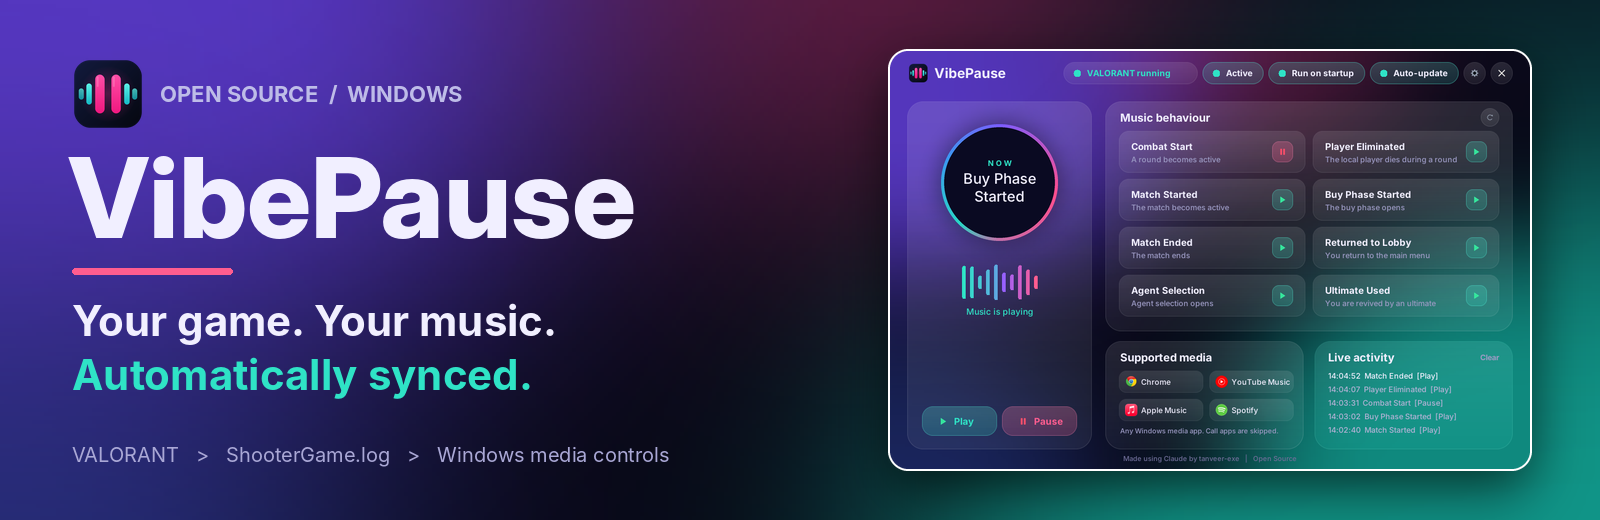
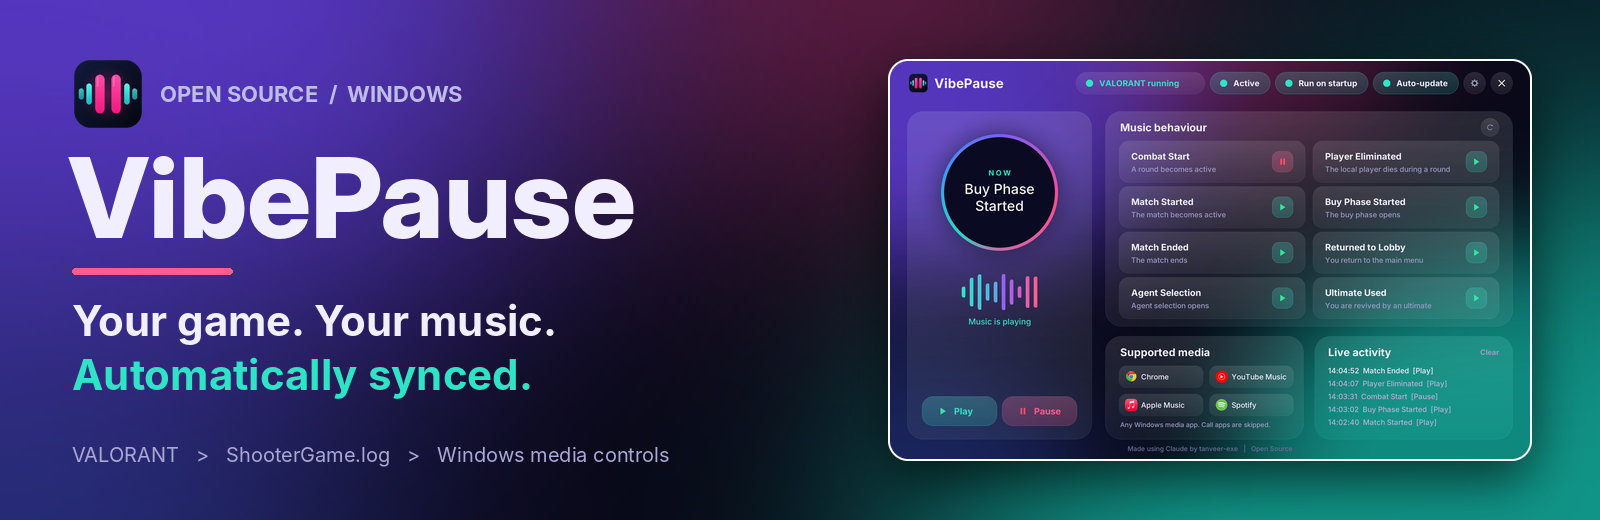
Crisp DPI-aware UI, rounded windows, glass settings panel, real media status
Claude-Session: https://claude.ai/code/session_01SifBbzFBQgmwtMJKUAGnSk

diff --git a/docs/index.html b/docs/index.html
@@ -183,7 +183,7 @@ footer a{text-underline-offset:3px}
       </div>
       <p class="fine">Free, no account, no admin rights. The installer is not code-signed yet, so Windows may show a SmartScreen warning. Choose More info, then Run anyway.</p>
     </div>
-    <div class="shot glass"><img src="screenshot.png" width="1040" height="680" alt="The VibePause window showing the current game state, eight music actions and live activity"></div>
+    <div class="shot glass"><img src="screenshot.png" width="1040" height="648" alt="The VibePause window showing the current game state, eight music actions and live activity"></div>
   </header>
 
   <section id="try">
